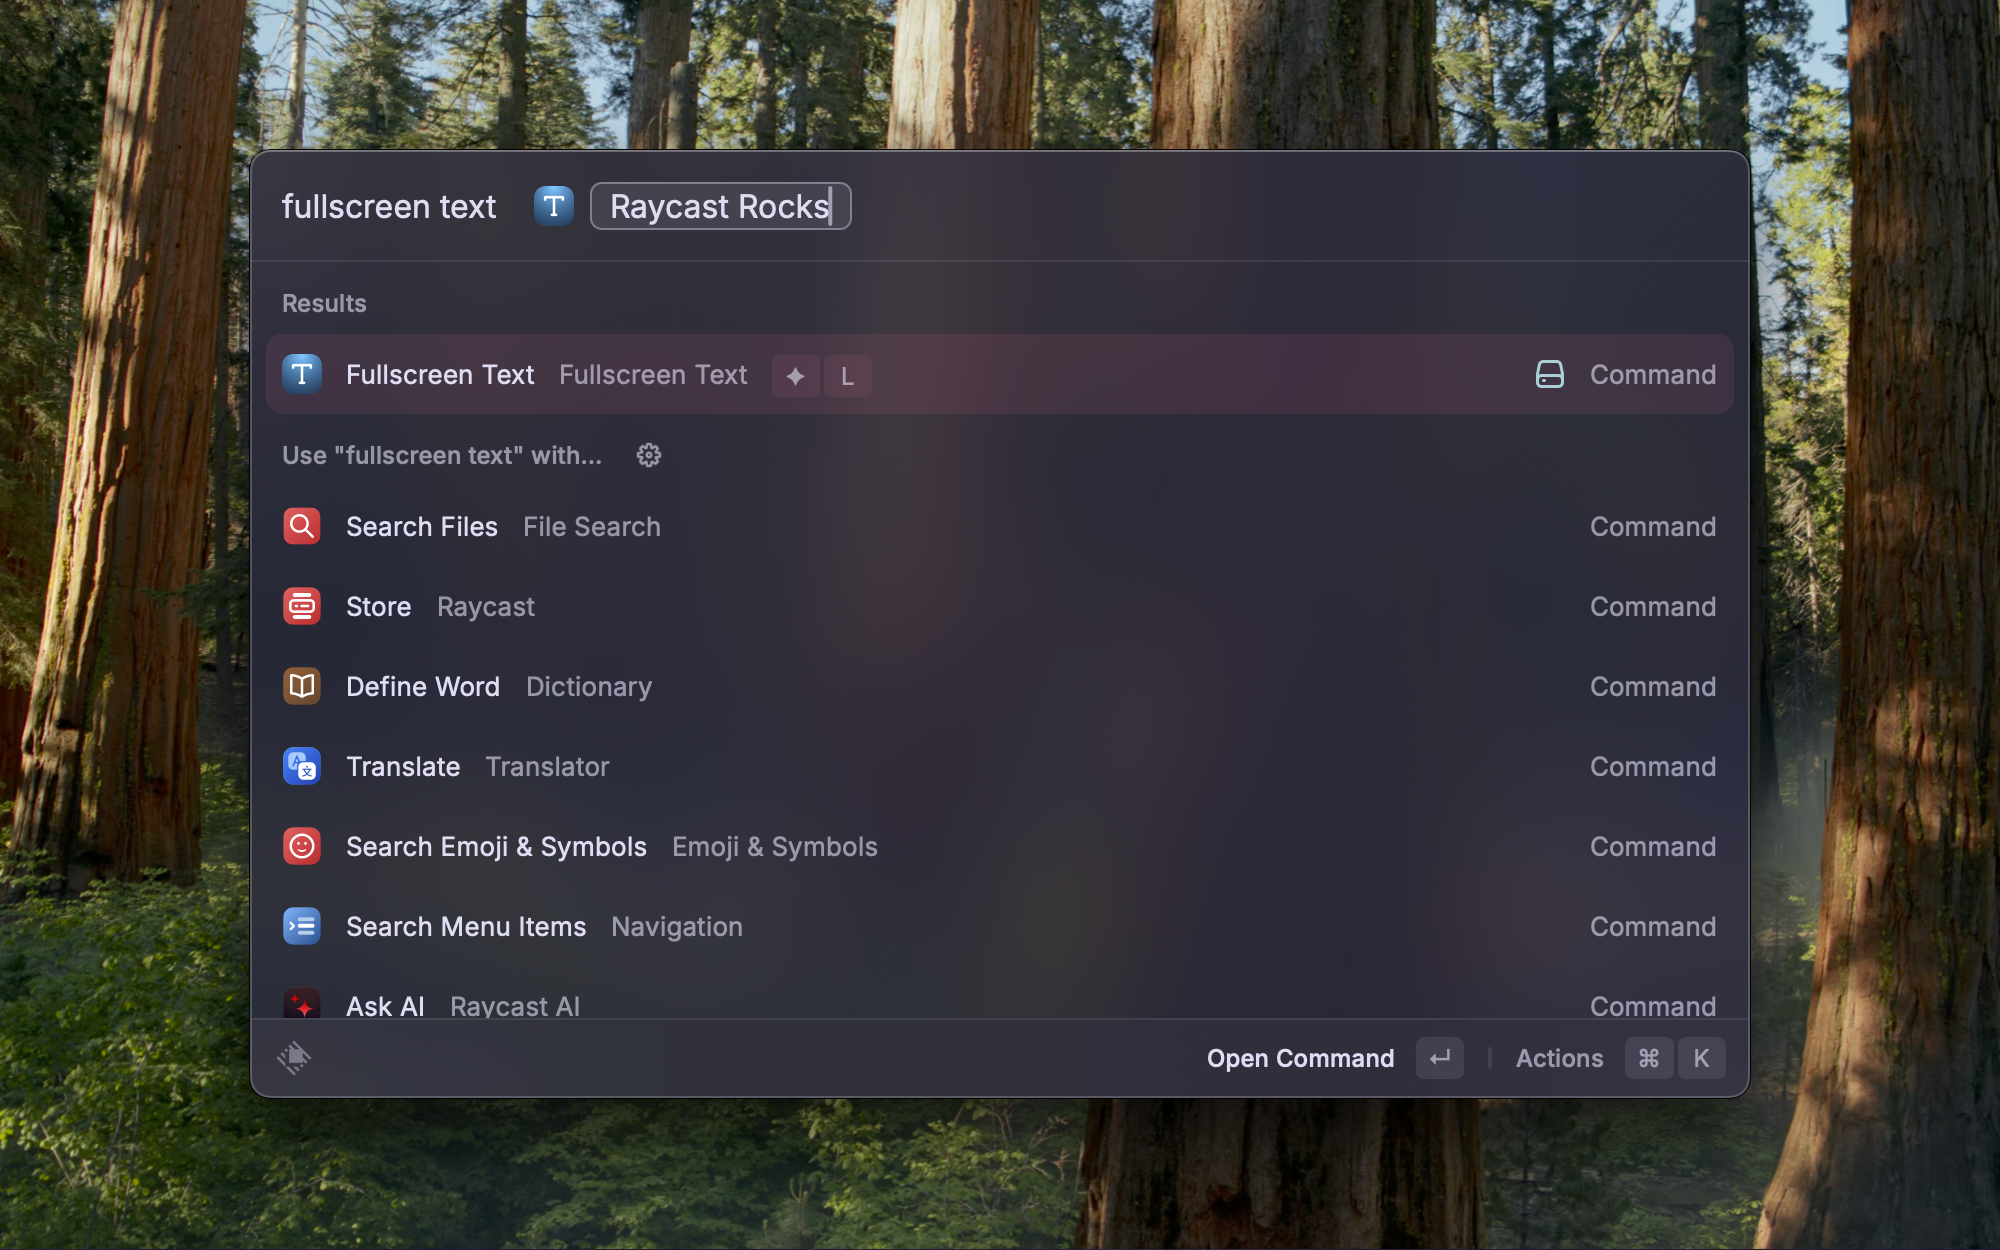
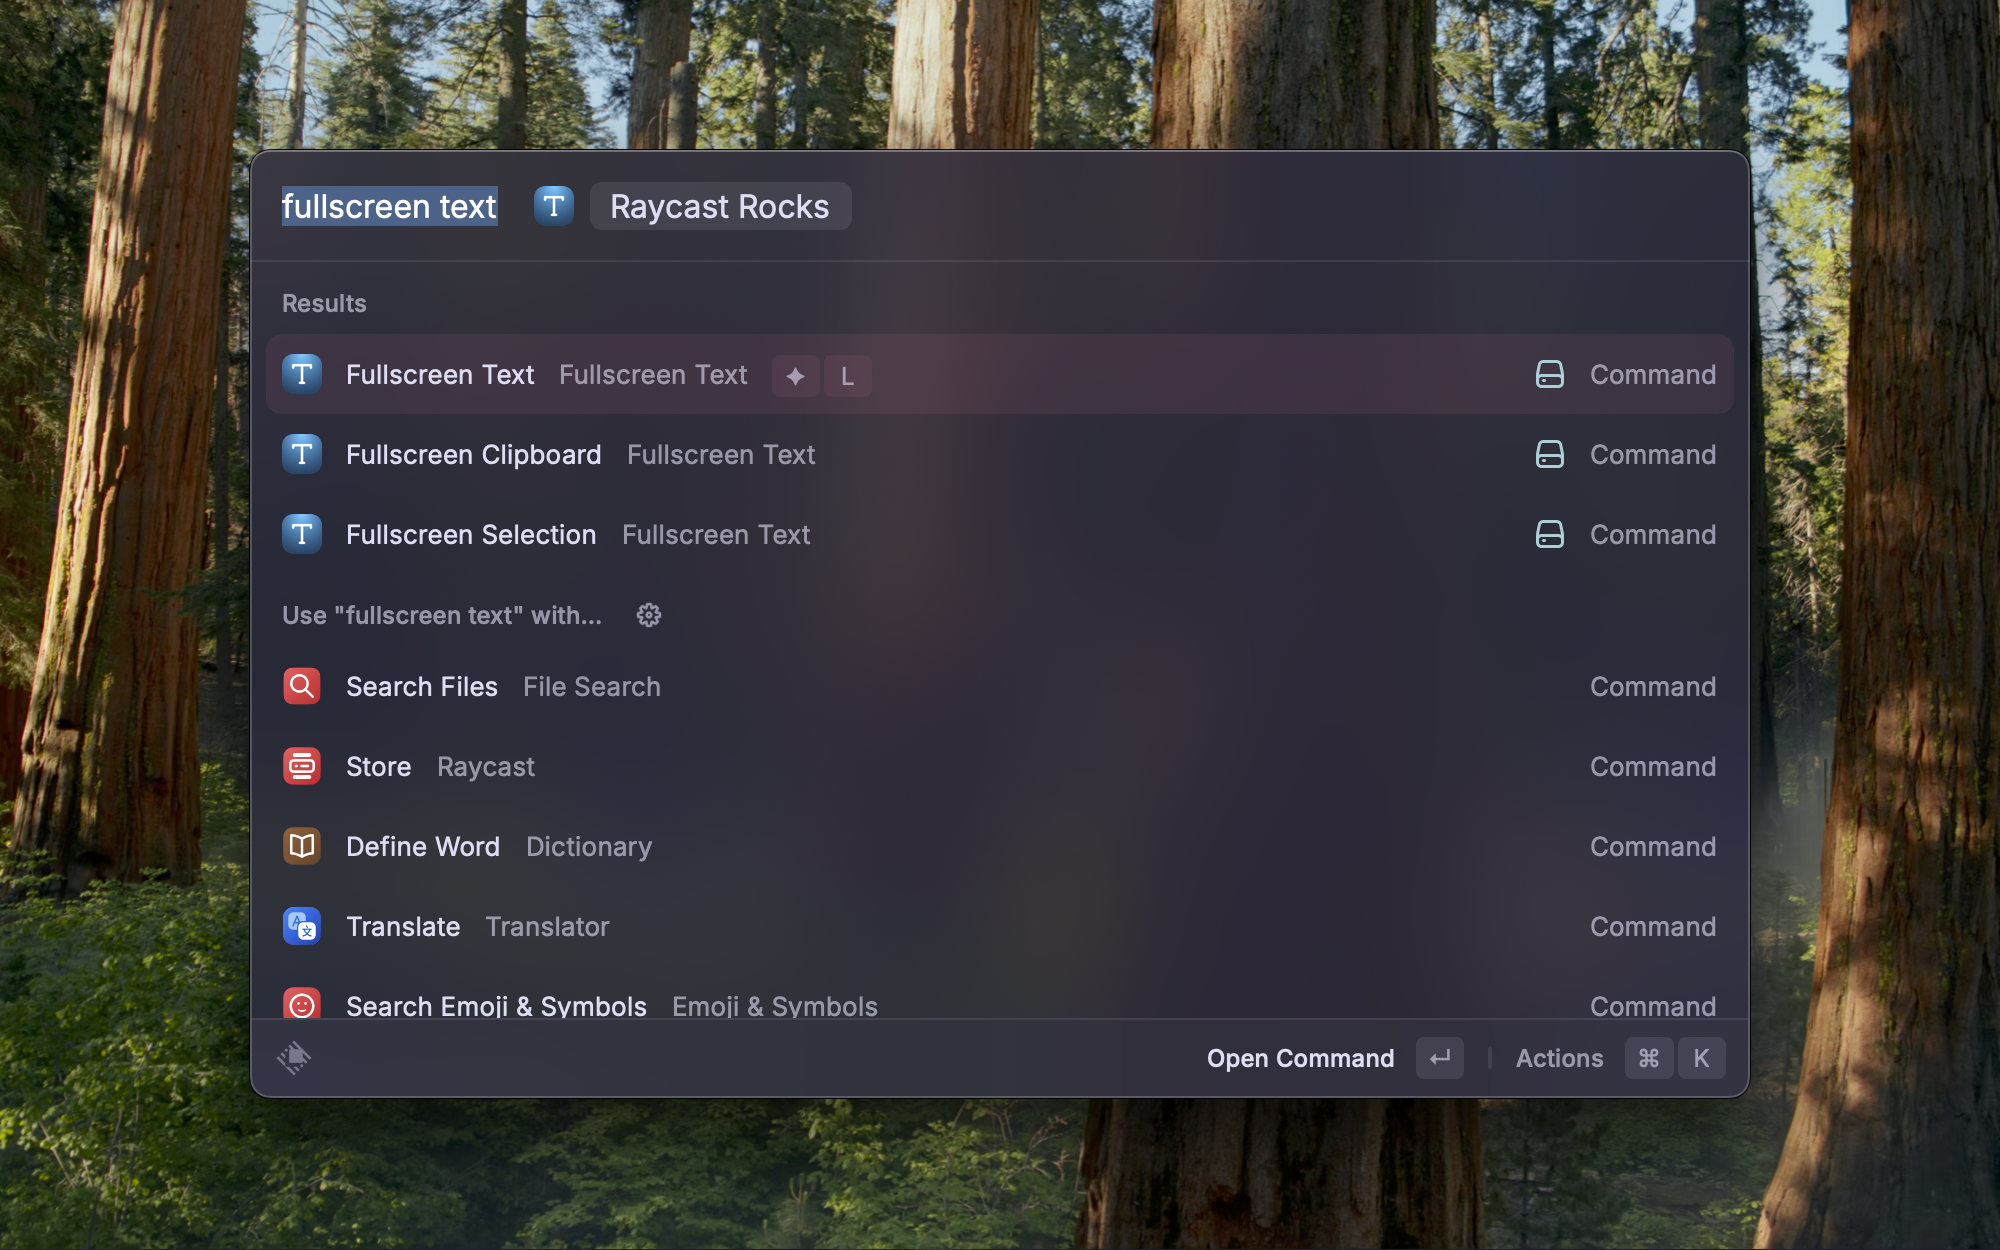
docs: update README and screenshot with new commands

diff --git a/README.md b/README.md
@@ -1,3 +1,9 @@
 # Fullscreen Text
 
 Display any text fullscreen. Works with multiple display: the text will show where the mouse is. Close with a mouse click or press the ESC key.
+
+## Key Features
+
+* Display any text fullscreen
+* Display selected text fullscreen
+* Display clipboard text fullscreen
